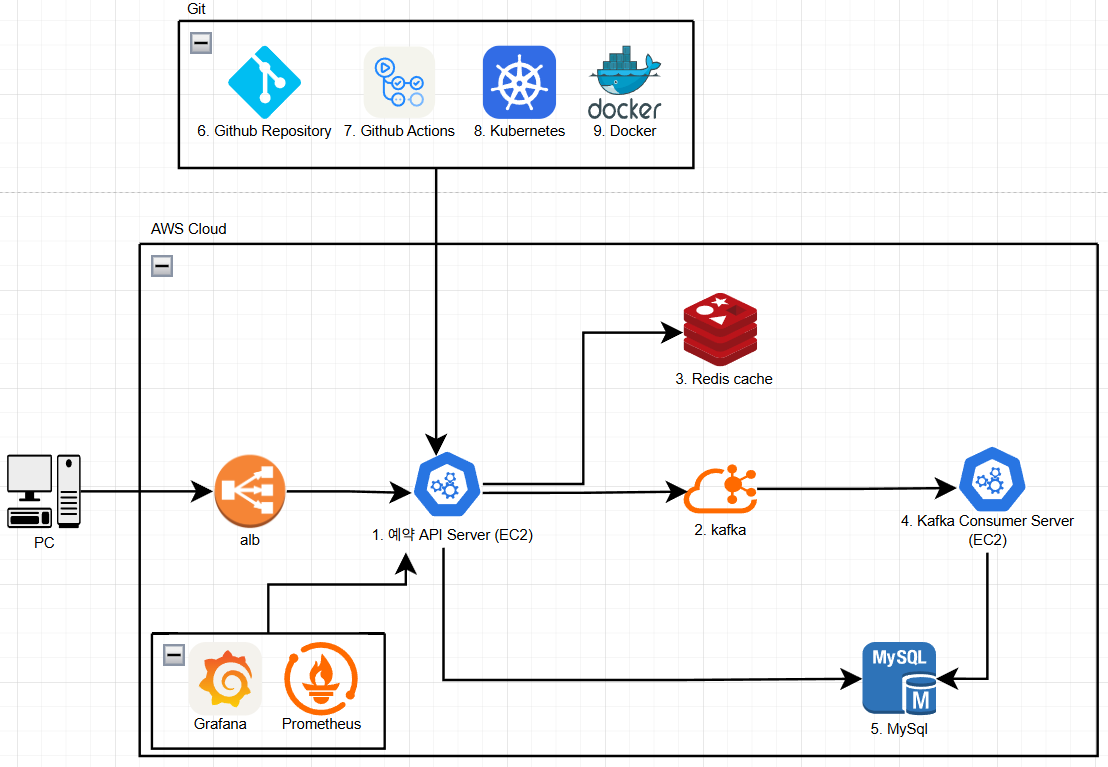
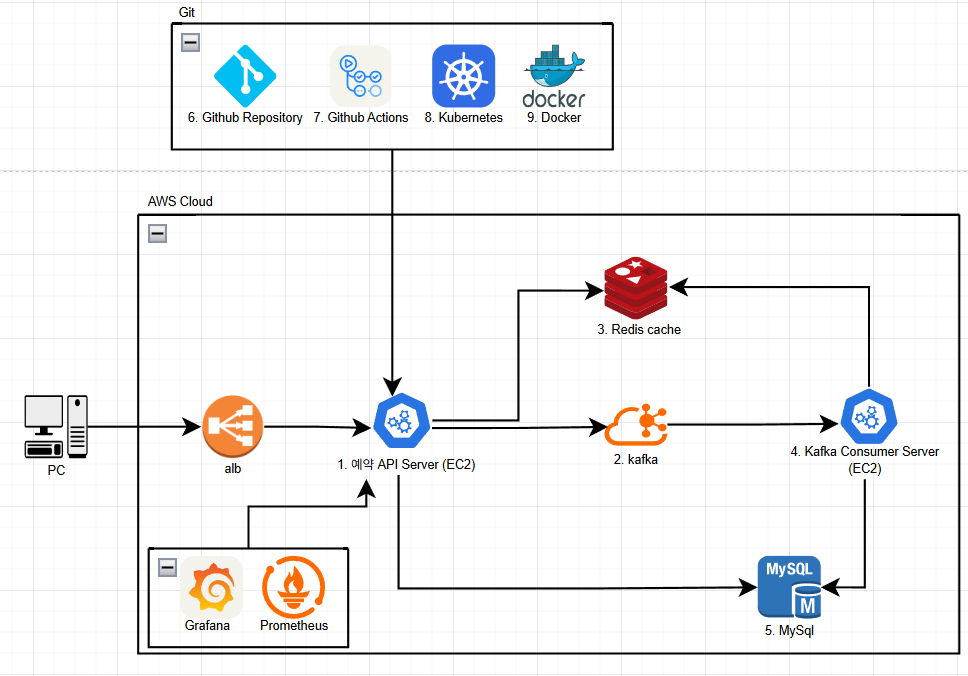
docs: 03_sequence_diagram.md 작성 및 인프라 구성도 변경

Changed region(s): [[0.0, 0.2796, 1.0, 0.9941], [0.155, 0.0, 0.6508, 0.2796]]

diff --git a/docs/03_sequence_diagram.md b/docs/03_sequence_diagram.md
@@ -1,17 +1,32 @@
-## 시퀀스 다이어그램
-- **객체 또는 프로세스가 특정 이벤트에 따라 상태가 어떻게 변하는지를 표현하는 다이어그램**
-- 특정 기능의 **상태 전이(Transitions)를 설명할 때 사용**
-
-**Usecase**
-
-✅ 주문(Order) 상태 전이 (결제 대기 → 결제 완료 → 배송 중)
-
-✅ 사용자 로그인 상태 (미인증 → 로그인 → 로그아웃)
-
-✅ 서킷 브레이커 상태 (Closed → Open → Half-Open)
+# 시퀀스 다이어그램
+사용자의 포인트 충전 및 조회, 각종 히스토리를 조회하는 시퀀스 다이아그램은 제외하고 메인 시나리오에 대한 시퀀스 다이아그램에 대한 문서입니다.
 
 
+## 1. 대기열 진입 및 토큰 발급
+- 사용자의 Haeder에 토큰이 존재하지 않을 경우, 대기열 진입 및 토큰 발급 API를 호출한다.
+![01](seq_01.png)
 
+## 2. 토큰 검증
+- 모든 API 요청은 Haeder에 토큰을 첨부하며 해당 토큰을 검증하는 과정이다.
+- 하기 API들은 모두 토큰 검증에서 통과한 이후의 시퀀스를 작성한다. 
+![02](seq_02.png)
+
+
+## 3. 예약 가능한 날짜 조회 및 좌석 조회
+![03](seq_03.png)
+
+## 4. 'AVAILABLE' 좌석 예약 요청
+- HELD 처리 + TTL + Kafka 발행 + concert_seats 상태 업데이트 진행.
+![04](seq_04.png)
+
+## 5. 사용자 결제 요청 및 성공 처리
+![05](seq_05.png)
+
+## 6. Kafka Consumer - 좌석 만료 메시지
+![06](seq_06.png)
+
+## 7. Kafka Consumer - 결제 완료
+![07](seq_07.png)
 
 
 [돌아가기](../README.md)

diff --git a/docs/04_infra.md b/docs/04_infra.md
@@ -22,7 +22,7 @@
   - Kafka 비동기 메시지 수신(Kafka Consumer)
   - 결제 완료 메시지 수신 → 좌석 상태 `RESERVED` 반영
   - 예약 생성 및 좌석 만료 메시지 수신시 해당 메시지 처리
-  - 예약 내역 DB 기록 및 상태 동기화
+  - (선택) 예약 처리 후 알림 전송, 로그 적재 등 후처리 작업
 
 ### 5. `MYSQL` (Amazone RDS)
 - 역할: 모든 주요 데이터 저장소 (유저, 포인트, 콘서트, 예약, 결제)
